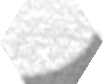
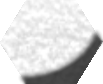
Bubble animation done, Ripple stubbed

Changed region(s): [[0.2039, 0.381, 1.0, 1.0]]

diff --git a/Hexagons.html b/Hexagons.html
@@ -47,10 +47,10 @@ div.h { /*Short classname for Hexagons*/
 </style>
 
 <script type="text/javascript">
-var ANIMATION_MS = 400; //Time between Animations
-var ANIMATION_QUANTITY = 4; //How many Hexagons to change at once
-var COLORS = colorsBlue(); //Fetch a pre-defined palette
-var FADE_COLOR = "#111"; //Fade to this color before fading to the new color (null to skip pre-fade)
+var ANIMATION_MS = 10; //Time between Animations
+var ANIMATION_QUANTITY = 1; //How many Hexagons to change at once
+var COLORS = colorsGrayish();//colorsBlue(); //Fetch a pre-defined palette
+var FADE_COLOR = null;//"#111"; //Fade to this color before fading to the new color (null to skip pre-fade)
 var NUM_COLS = 19;
 var NUM_ROWS = 29;
 
@@ -110,6 +110,15 @@ function colorsBlue() {
   return [
     "001457","001869","00196e","001b75","001c7a","001d7d","001e82","001f85",
     "002087","00218a","00228f"
+  ];
+}
+function colorsGrayish() {
+  return [
+     //"050306","0a050b","0c070d","0e090f","0f0a10"
+     //,"010108","0a0a12" //blues
+     //,"030008" //purples
+     "000","010104","020205","030306","040407","050509","060611","070712","080813",
+     "0b0b12"//,"0d0d17","0e0f17"
   ];
 }
 function colorsPurple() {

diff --git a/ripple.html b/ripple.html
@@ -1,0 +1,21 @@
+<!DOCTYPE html>
+<html>
+<head>
+  <title>Bubble Animation</title>
+  <link rel="stylesheet" href="css/ripple.css">
+</head>
+<body>
+  <!-- Prime numbers of <p>s are good. I did 79 -->
+  <div class="bubbles">
+    <p></p><p></p><p></p><p></p><p></p><p></p><p></p><p></p><p></p><p></p>
+    <p></p><p></p><p></p><p></p><p></p><p></p><p></p><p></p><p></p><p></p>
+    <p></p><p></p><p></p><p></p><p></p><p></p><p></p><p></p><p></p><p></p>
+    <p></p><p></p><p></p><p></p><p></p><p></p><p></p><p></p><p></p><p></p>
+    <p></p><p></p><p></p><p></p><p></p><p></p><p></p><p></p><p></p><p></p>
+    <p></p><p></p><p></p><p></p><p></p><p></p><p></p><p></p><p></p><p></p>
+    <p></p><p></p><p></p><p></p><p></p><p></p><p></p><p></p><p></p><p></p>
+    <p></p><p></p><p></p><p></p><p></p><p></p><p></p><p></p><p></p>
+  </div>
+
+</body>
+</html>

diff --git a/bubbles.html b/bubbles.html
@@ -1,0 +1,25 @@
+<!DOCTYPE html>
+<html>
+<head>
+  <title>Bubble Animation</title>
+  <link rel="stylesheet" href="css/bubbles.css">
+  <script type="text/javascript">
+    const NUM_BUBBLES = 79; //Prime numbers are good at making it feel random
+    function init() {
+      var bubbles = document.createElement('div');
+      bubbles.classList.add('bubbles');
+      for (let i = 0; i < NUM_BUBBLES; ++i) {
+        let div = document.createElement('div');
+        let p = document.createElement('p');
+        let span = document.createElement('span');
+        div.appendChild(span);
+        p.appendChild(div);
+        bubbles.appendChild(p);
+      }
+      document.body.appendChild(bubbles);
+    }
+  </script>
+</head>
+<body onload="init()">
+</body>
+</html>
